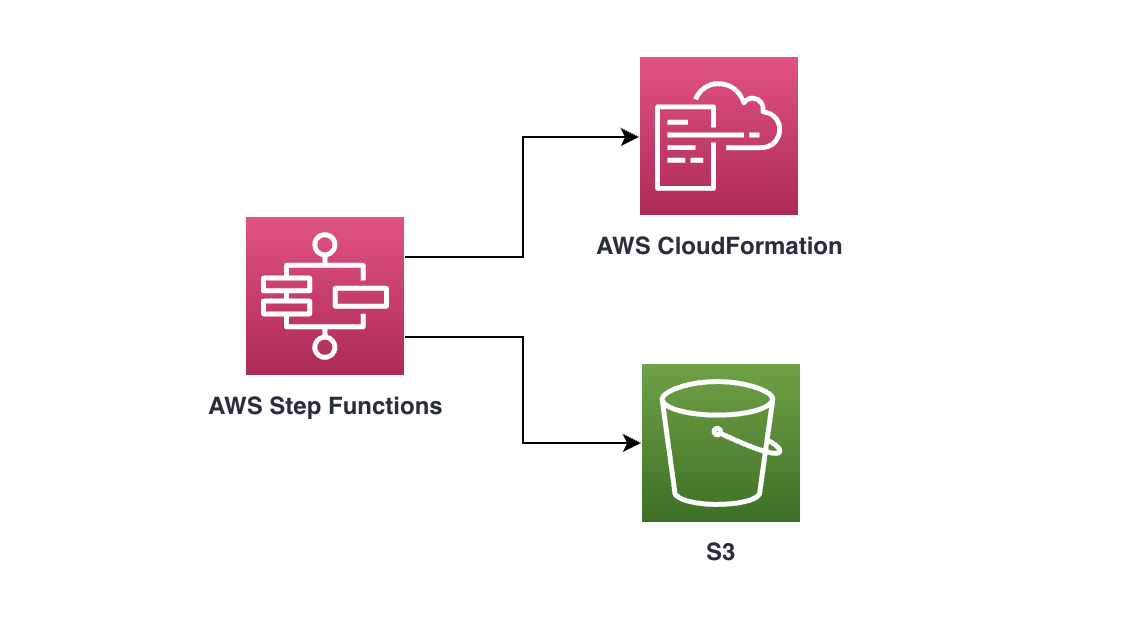
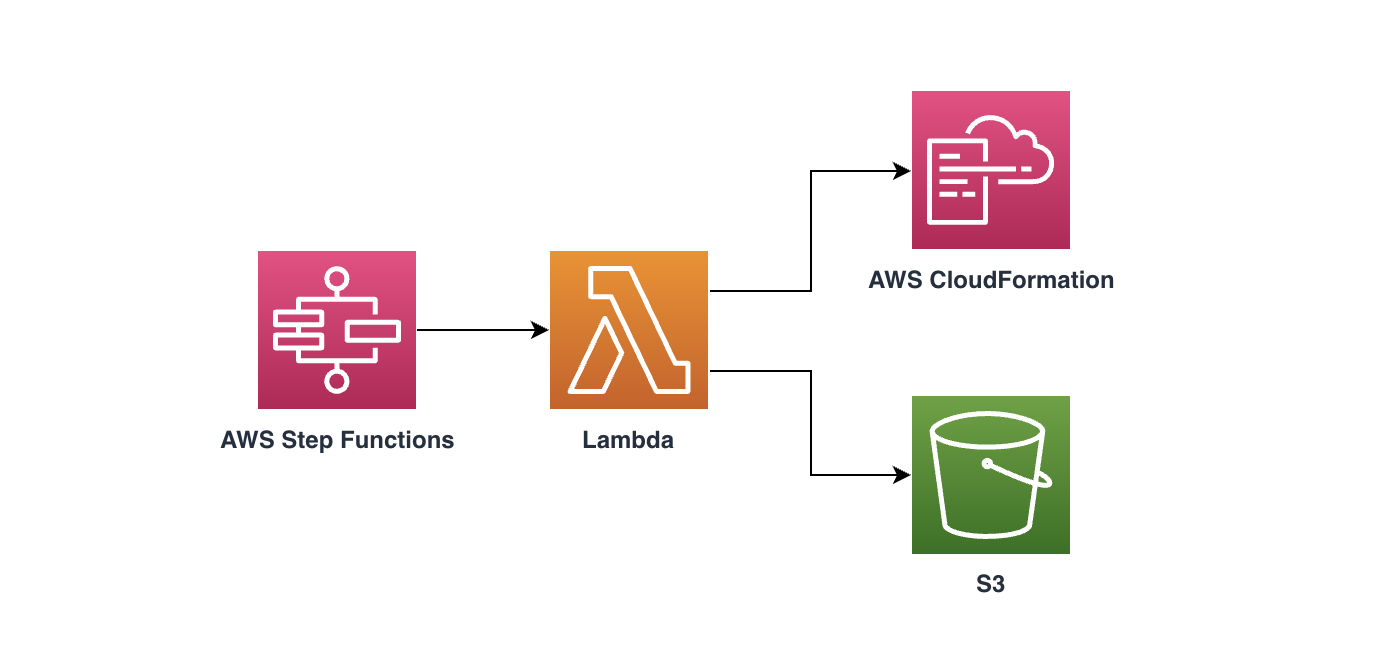
chore: Add Getting Started

Changed region(s): [[0.1543, 0.0896, 0.8025, 0.8962], [0.7099, 0.8664, 0.7407, 0.8962]]

diff --git a/README.md b/README.md
@@ -38,6 +38,243 @@ cdk deploy --app='./lib/integ.default.js' --require-approval never
 yarn test
 ```
 
+## Getting Started
+
+After creating the Stack, you can see the following output:
+｜----｜----｜----｜
+｜ WorkflowStateMachineArn ｜ arn:aws:states:ap-southeast-1:*:stateMachine:<workflow-state-machine-name> ｜ Workflow State Machine Arn ｜
+｜ ActionStateMachineArn ｜ arn:aws:states:ap-southeast-1:*:stateMachine:<action-state-machine-name> ｜ Action State Machine Arn ｜
+｜ CallbackBucketName ｜ stack-workflow-callback-xxx ｜ Callback Bucket Name ｜
+
+Access the AWS Step Functions console, select the workflow state machine, click the **Start Execution** button, and enter the following JSON data to complete the tasks.
+
+### Task1: Run stack
+
+**Target:** Use stack to create/update/delete a DynamoDB table in `ap-southeast-1` region.
+
+**Execution input:**
+```json
+{
+  "Type": "Stack",
+  "Data": {
+    "Input": {
+      "Region": "ap-southeast-1",
+      "TemplateURL": "https://s3-us-west-1.amazonaws.com/cloudformation-templates-us-west-1/DynamoDBSI.template",
+      "Action": "Create",
+      "Parameters": [
+        {
+          "ParameterKey": "ReadCapacityUnits",
+          "ParameterValue": "5"
+        },
+        {
+          "ParameterKey": "WriteCapacityUnits",
+          "ParameterValue": "10"
+        }
+      ],
+      "StackName": "Stack-test1"
+    }
+  },
+  "End": true
+}
+```
+
+**Tips:**
+
+You only need to modify `Data.Input.Action` to complete other stack operations: **Update**, **Delete**.
+
+### Task2: Run stacks concurrently
+
+**Target:** Concurrently executing two stacks in `ap-southeast-1` region, one for creating DynamoDB table and one for creating SQS queue with a specific name.
+
+**Execution input:**
+```json
+{
+  "Type": "Parallel",
+  "End": true,
+  "Branches": [
+    {
+      "States": {
+        "Stack-test21": {
+          "Type": "Stack",
+          "Data": {
+            "Input": {
+              "Region": "ap-southeast-1",
+              "TemplateURL": "https://s3-us-west-1.amazonaws.com/cloudformation-templates-us-west-1/DynamoDBSI.template",
+              "Action": "Create",
+              "Parameters": [
+                {
+                  "ParameterKey": "ReadCapacityUnits",
+                  "ParameterValue": "5"
+                },
+                {
+                  "ParameterKey": "WriteCapacityUnits",
+                  "ParameterValue": "10"
+                }
+              ],
+              "StackName": "Stack-test21"
+            }
+          },
+          "End": true
+        }
+      },
+      "StartAt": "Stack-test21"
+    },
+    {
+      "States": {
+        "Stack-test22": {
+          "Type": "Stack",
+          "Data": {
+            "Input": {
+              "Region": "ap-southeast-1",
+              "TemplateURL": "https://s3-us-west-2.amazonaws.com/cloudformation-templates-us-west-2/SQSWithQueueName.template",
+              "Action": "Create",
+              "Parameters": [
+                {
+                  "ParameterKey": "QueueName",
+                  "ParameterValue": "test22"
+                }
+              ],
+              "StackName": "Stack-test22"
+            }
+          },
+          "End": true
+        }
+      },
+      "StartAt": "Stack-test22"
+    }
+  ]
+}
+```
+
+### Task3: Run stacks serially
+
+**Target:** Serially executing two stacks in `ap-southeast-1` region. First, create a DynamoDB table, and after the first stack is completed, create SQS queue with a specific name.
+
+**Execution input:**
+```json
+{
+  "Type": "Parallel",
+  "End": true,
+  "Branches": [
+    {
+      "States": {
+        "Stack-test31": {
+          "Type": "Stack",
+          "Data": {
+            "Input": {
+              "Region": "ap-southeast-1",
+              "TemplateURL": "https://s3-us-west-1.amazonaws.com/cloudformation-templates-us-west-1/DynamoDBSI.template",
+              "Action": "Create",
+              "Parameters": [
+                {
+                  "ParameterKey": "ReadCapacityUnits",
+                  "ParameterValue": "5"
+                },
+                {
+                  "ParameterKey": "WriteCapacityUnits",
+                  "ParameterValue": "10"
+                }
+              ],
+              "StackName": "Stack-test31"
+            }
+          },
+          "Next": "Stack-test32"
+        },
+        "Stack-test32": {
+          "Type": "Stack",
+          "Data": {
+            "Input": {
+              "Region": "ap-southeast-1",
+              "TemplateURL": "https://s3-us-west-2.amazonaws.com/cloudformation-templates-us-west-2/SQSWithQueueName.template",
+              "Action": "Create",
+              "Parameters": [
+                {
+                  "ParameterKey": "QueueName",
+                  "ParameterValue": "test32"
+                }
+              ],
+              "StackName": "Stack-test32"
+            }
+          },
+          "End": true
+        }
+      },
+      "StartAt": "Stack-test31"
+    }
+  ]
+}
+```
+
+### Task4: Run stacks with input/output dependency
+
+**Target:** Serially executing two stacks in `ap-southeast-1` region. First, create a DynamoDB table, and after the first stack is completed, create SQS queue with a specific name that is first stack output(first stack **output** DynamoDB table name as second stack **input** queue name).
+
+**Execution input:**
+```json
+{
+  "Type": "Parallel",
+  "End": true,
+  "Branches": [
+    {
+      "States": {
+        "Stack-test41": {
+          "Type": "Stack",
+          "Data": {
+            "Input": {
+              "Region": "ap-southeast-1",
+              "TemplateURL": "https://s3-us-west-1.amazonaws.com/cloudformation-templates-us-west-1/DynamoDBSI.template",
+              "Action": "Create",
+              "Parameters": [
+                {
+                  "ParameterKey": "ReadCapacityUnits",
+                  "ParameterValue": "5"
+                },
+                {
+                  "ParameterKey": "WriteCapacityUnits",
+                  "ParameterValue": "10"
+                }
+              ],
+              "StackName": "Stack-test41"
+            }
+          },
+          "Next": "Stack-test42"
+        },
+        "Stack-test42": {
+          "Type": "Stack",
+          "Data": {
+            "Input": {
+              "Region": "ap-southeast-1",
+              "TemplateURL": "https://s3-us-west-2.amazonaws.com/cloudformation-templates-us-west-2/SQSWithQueueName.template",
+              "Action": "Create",
+              "Parameters": [
+                {
+                  "ParameterKey": "QueueName.#",
+                  "ParameterValue": "#.Stack-test41.TableName"
+                },
+              ],
+              "StackName": "Stack-test42"
+            }
+          },
+          "End": true
+        }
+      },
+      "StartAt": "Stack-test41"
+    }
+  ]
+}
+```
+
+**Tips:**
+
+Of course, you can also use **JsonPath** to obtain values from Outputs, and such parameters can achieve the same effect:
+
+```json
+{
+  "ParameterKey": "QueueName.$",
+  "ParameterValue": "$.Stack-test41.Outputs[0].OutputValue"
+}
+```
+                
 ## Architecture
 ![Architecture Diagram](architecture.png)
 
@@ -47,6 +284,11 @@ Out of the box implementation of the Construct without any override will set the
 ### AWS Step Functions
 - Workflow state machine timeout is 2 hours, stack action state machine timeout is 1 hour
 - Specifies Amazon X-Ray tracing is enabled for state machine
+
+### AWS Lambda
+- The runtime environment: `NODEJS_18_X`
+- The system architectures compatible with this lambda function: `X86_64`
+- The function execution time (`15 seconds`) after which Lambda terminates the function
 
 ### AWS CloudFormation
 - Create stack with `DisableRollback:true`
